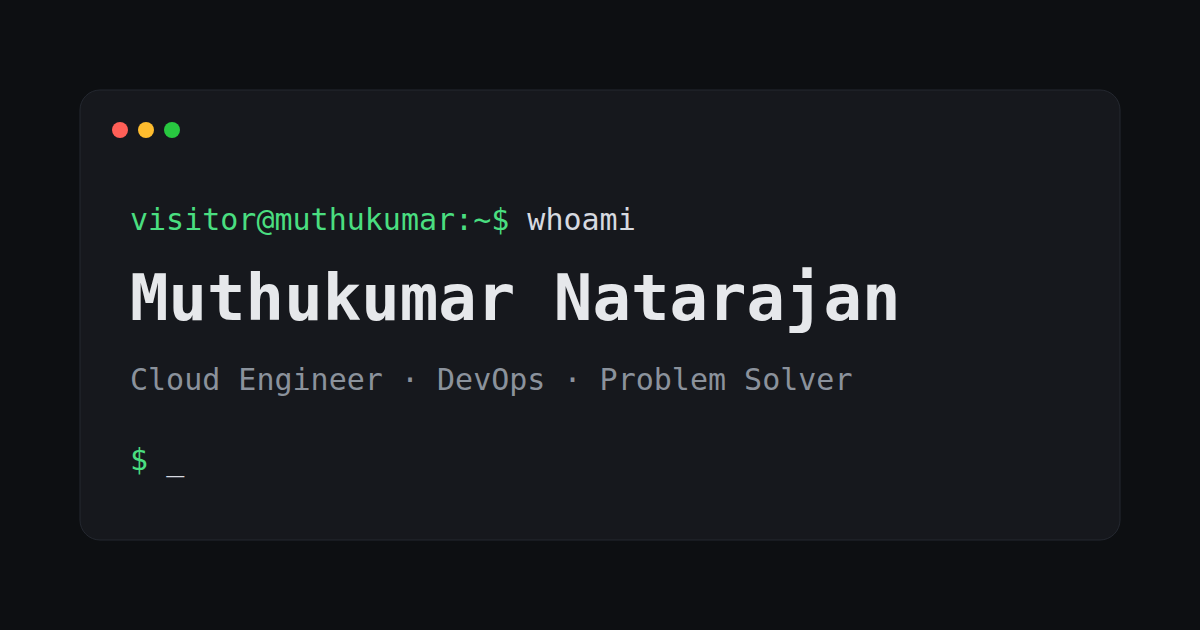
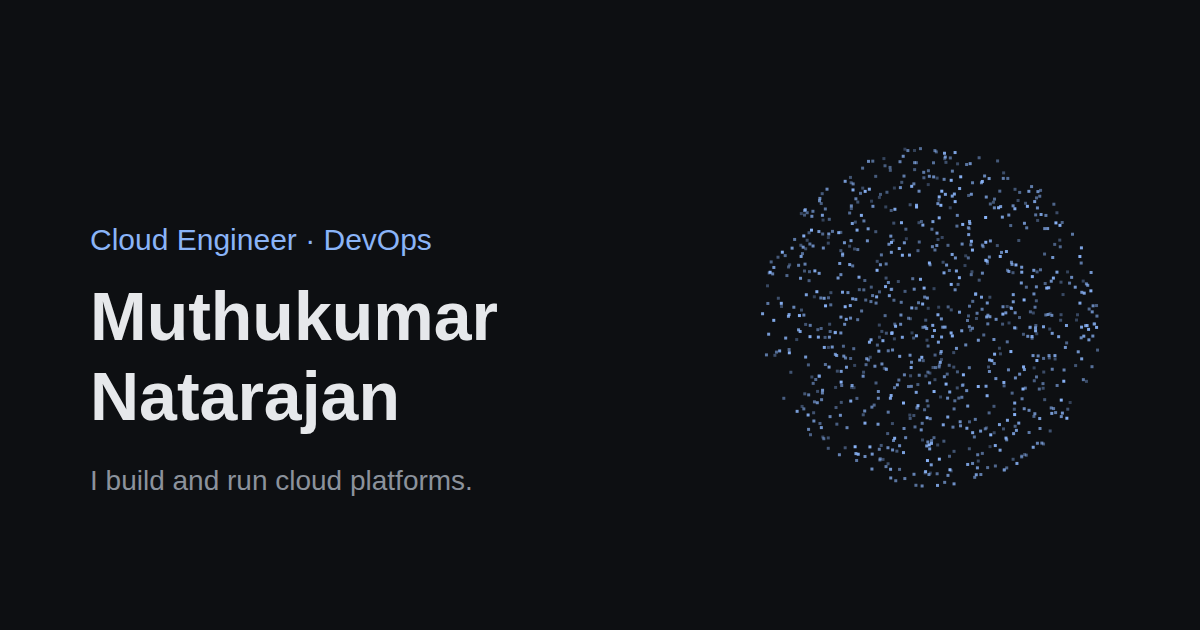
Switch to blue theme and add social links
Google blue accent (light) / soft blue (dark) across UI, particles,
favicon and OG image. Social links with icons in hero, contact, and
footer; empty URLs are hidden.

Claude-Session: https://claude.ai/code/session_01XLLhpUdt3t6DL9fYqErgR8

diff --git a/components/SocialLinks.js b/components/SocialLinks.js
@@ -1,0 +1,62 @@
+import profile from '../content/profile';
+import styles from './SocialLinks.module.css';
+
+const ICONS = {
+  github:
+    'M12 .5a11.5 11.5 0 0 0-3.64 22.41c.58.1.79-.25.79-.56v-2c-3.2.7-3.88-1.37-3.88-1.37-.52-1.33-1.28-1.69-1.28-1.69-1.05-.72.08-.7.08-.7 1.16.08 1.77 1.19 1.77 1.19 1.03 1.77 2.7 1.26 3.36.96.1-.75.4-1.26.73-1.55-2.55-.29-5.24-1.28-5.24-5.69 0-1.26.45-2.29 1.19-3.1-.12-.29-.52-1.46.11-3.05 0 0 .97-.31 3.17 1.18a11 11 0 0 1 5.77 0c2.2-1.49 3.17-1.18 3.17-1.18.63 1.59.23 2.76.11 3.05.74.81 1.19 1.84 1.19 3.1 0 4.42-2.7 5.39-5.26 5.68.41.36.78 1.06.78 2.14v3.17c0 .31.21.67.8.56A11.5 11.5 0 0 0 12 .5Z',
+  linkedin:
+    'M20.45 20.45h-3.56v-5.57c0-1.33-.02-3.04-1.85-3.04-1.86 0-2.14 1.45-2.14 2.94v5.67H9.35V9h3.41v1.56h.05c.48-.9 1.64-1.85 3.37-1.85 3.6 0 4.27 2.37 4.27 5.46v6.28ZM5.34 7.43a2.06 2.06 0 1 1 0-4.13 2.06 2.06 0 0 1 0 4.13ZM7.12 20.45H3.56V9h3.56v11.45ZM22.22 0H1.77C.79 0 0 .77 0 1.73v20.54C0 23.23.79 24 1.77 24h20.45c.98 0 1.78-.77 1.78-1.73V1.73C24 .77 23.2 0 22.22 0Z',
+  x: 'M18.24 2.25h3.31l-7.23 8.26 8.5 11.24h-6.66l-5.21-6.82-5.97 6.82H1.67l7.73-8.84L1.25 2.25h6.83l4.71 6.23 5.45-6.23Zm-1.16 17.52h1.83L7.08 4.13H5.12l11.96 15.64Z',
+  medium:
+    'M13.54 12a6.8 6.8 0 0 1-6.77 6.82A6.8 6.8 0 0 1 0 12a6.8 6.8 0 0 1 6.77-6.82A6.8 6.8 0 0 1 13.54 12Zm7.42 0c0 3.54-1.51 6.42-3.38 6.42-1.87 0-3.39-2.88-3.39-6.42s1.52-6.42 3.39-6.42 3.38 2.88 3.38 6.42ZM24 12c0 3.17-.53 5.75-1.19 5.75-.66 0-1.19-2.58-1.19-5.75s.53-5.75 1.19-5.75C23.47 6.25 24 8.83 24 12Z',
+  devto:
+    'M7.42 10.05c-.18-.16-.46-.23-.84-.23H6v4.36h.58c.37 0 .66-.08.84-.23.2-.16.29-.4.29-.73v-2.44c0-.33-.1-.57-.29-.73ZM0 4.94v14.12h24V4.94H0Zm8.56 8.86c0 .66-.2 1.2-.61 1.6-.41.41-1 .61-1.77.61H4.31V8.99H6.3c.76 0 1.33.2 1.72.6.39.4.54.94.54 1.61v2.6Zm4.24-3.53h-2.32v1.19h1.43v1.27h-1.43v1.2h2.32v1.27H9.93a.73.73 0 0 1-.73-.73V9.73c0-.4.33-.73.73-.73h2.87v1.27Zm4.23 4.83c-.56 1.3-1.56 1.04-2.01 0L13.4 9h1.4l1.28 4.92L17.35 9h1.4l-1.72 6.1Z',
+  youtube:
+    'M23.5 6.2a3 3 0 0 0-2.1-2.1C19.5 3.6 12 3.6 12 3.6s-7.5 0-9.4.5A3 3 0 0 0 .5 6.2 31 31 0 0 0 0 12a31 31 0 0 0 .5 5.8 3 3 0 0 0 2.1 2.1c1.9.5 9.4.5 9.4.5s7.5 0 9.4-.5a3 3 0 0 0 2.1-2.1A31 31 0 0 0 24 12a31 31 0 0 0-.5-5.8ZM9.6 15.6V8.4l6.2 3.6-6.2 3.6Z',
+  instagram:
+    'M12 2.16c3.2 0 3.58.01 4.85.07 1.17.05 1.8.25 2.23.41.56.22.96.48 1.38.9.42.42.68.82.9 1.38.16.42.36 1.06.41 2.23.06 1.27.07 1.65.07 4.85s-.01 3.58-.07 4.85c-.05 1.17-.25 1.8-.41 2.23a3.7 3.7 0 0 1-.9 1.38c-.42.42-.82.68-1.38.9-.42.16-1.06.36-2.23.41-1.27.06-1.65.07-4.85.07s-3.58-.01-4.85-.07c-1.17-.05-1.8-.25-2.23-.41a3.7 3.7 0 0 1-1.38-.9 3.7 3.7 0 0 1-.9-1.38c-.16-.42-.36-1.06-.41-2.23C2.17 15.58 2.16 15.2 2.16 12s.01-3.58.07-4.85c.05-1.17.25-1.8.41-2.23.22-.56.48-.96.9-1.38.42-.42.82-.68 1.38-.9.42-.16 1.06-.36 2.23-.41C8.42 2.17 8.8 2.16 12 2.16ZM12 0C8.74 0 8.33.01 7.05.07 5.78.13 4.9.33 4.14.63a5.9 5.9 0 0 0-2.13 1.38A5.9 5.9 0 0 0 .63 4.14C.33 4.9.13 5.78.07 7.05.01 8.33 0 8.74 0 12s.01 3.67.07 4.95c.06 1.27.26 2.15.56 2.91.3.79.72 1.46 1.38 2.13a5.9 5.9 0 0 0 2.13 1.38c.76.3 1.64.5 2.91.56C8.33 23.99 8.74 24 12 24s3.67-.01 4.95-.07c1.27-.06 2.15-.26 2.91-.56a5.9 5.9 0 0 0 2.13-1.38 5.9 5.9 0 0 0 1.38-2.13c.3-.76.5-1.64.56-2.91.06-1.28.07-1.69.07-4.95s-.01-3.67-.07-4.95c-.06-1.27-.26-2.15-.56-2.91a5.9 5.9 0 0 0-1.38-2.13A5.9 5.9 0 0 0 19.86.63C19.1.33 18.22.13 16.95.07 15.67.01 15.26 0 12 0Zm0 5.84a6.16 6.16 0 1 0 0 12.32 6.16 6.16 0 0 0 0-12.32ZM12 16a4 4 0 1 1 0-8 4 4 0 0 1 0 8Zm6.4-11.85a1.44 1.44 0 1 0 0 2.88 1.44 1.44 0 0 0 0-2.88Z',
+  stackoverflow:
+    'M18.99 21.95v-6.4h2.13V24H1.98v-8.45h2.13v6.4h14.88ZM6.22 19.82h10.64v-2.13H6.22v2.13Zm.26-4.84 10.39 2.18.44-2.08-10.39-2.18-.44 2.08Zm1.35-5.03 9.62 4.48.9-1.93-9.62-4.48-.9 1.93Zm2.69-4.74 8.16 6.79 1.36-1.63-8.16-6.79-1.36 1.63ZM15.8 0l-1.7 1.27 6.34 8.53 1.71-1.27L15.8 0Z',
+  credly:
+    'M12 1.5 21.1 6.75v10.5L12 22.5l-9.1-5.25V6.75L12 1.5Zm0 2.3L4.9 7.9v8.2L12 20.2l7.1-4.1V7.9L12 3.8Zm-.1 3.7c1.8 0 3.1.9 3.6 2.4l-1.8.6c-.3-.8-1-1.2-1.8-1.2-1.3 0-2.1 1-2.1 2.7 0 1.7.8 2.7 2.1 2.7.9 0 1.5-.4 1.8-1.2l1.8.6c-.5 1.5-1.8 2.4-3.6 2.4-2.5 0-4.1-1.8-4.1-4.5s1.6-4.5 4.1-4.5Z',
+  email: 'M2 4h20a2 2 0 0 1 2 2v12a2 2 0 0 1-2 2H2a2 2 0 0 1-2-2V6a2 2 0 0 1 2-2Zm0 2v.4l10 6.25L22 6.4V6H2Zm20 2.76-9.47 5.92a1 1 0 0 1-1.06 0L2 8.76V18h20V8.76Z',
+  link: 'M10.6 13.4a1 1 0 0 1 0-1.4l3.5-3.5a3 3 0 0 1 4.2 4.2l-2.1 2.1a1 1 0 1 1-1.4-1.4l2.1-2.1a1 1 0 0 0-1.4-1.4l-3.5 3.5a1 1 0 0 1-1.4 0Zm2.8-2.8a1 1 0 0 1 0 1.4l-3.5 3.5a3 3 0 0 1-4.2-4.2l2.1-2.1a1 1 0 1 1 1.4 1.4L7.1 12.7a1 1 0 0 0 1.4 1.4l3.5-3.5a1 1 0 0 1 1.4 0Z',
+};
+
+export const activeSocials = profile.socials.filter((s) => s.url);
+
+export function SocialIcon({ icon, size = 18 }) {
+  return (
+    <svg width={size} height={size} viewBox="0 0 24 24" fill="currentColor" aria-hidden="true">
+      <path d={ICONS[icon] || ICONS.link} />
+    </svg>
+  );
+}
+
+export default function SocialLinks({ withEmail = false, labels = false, className = '' }) {
+  const items = [
+    ...activeSocials,
+    ...(withEmail ? [{ label: 'Email', icon: 'email', url: `mailto:${profile.email}` }] : []),
+  ];
+  if (!items.length) return null;
+  return (
+    <ul className={`${styles.list} ${labels ? styles.withLabels : ''} ${className}`} aria-label="Social links">
+      {items.map((s) => (
+        <li key={s.label}>
+          <a
+            href={s.url}
+            className={styles.link}
+            target={s.url.startsWith('mailto:') ? undefined : '_blank'}
+            rel="noopener noreferrer me"
+            aria-label={s.label}
+            title={s.label}
+            data-magnetic
+          >
+            <SocialIcon icon={s.icon} />
+            {labels && <span>{s.label}</span>}
+          </a>
+        </li>
+      ))}
+    </ul>
+  );
+}

diff --git a/components/EasterEggs.js b/components/EasterEggs.js
@@ -26,7 +26,7 @@ export default function EasterEggs() {
     };
     window.addEventListener('keydown', onKey);
     window.addEventListener('app:egg', onEgg);
-    console.log('%c> hey, curious one. try the Konami code, or type `sudo hire-me` in the terminal.', 'color:#4ade80;font-family:monospace');
+    console.log('%c> hey, curious one. try the Konami code, or type `sudo hire-me` in the terminal.', 'color:#8ab4f8;font-family:monospace');
     return () => {
       window.removeEventListener('keydown', onKey);
       window.removeEventListener('app:egg', onEgg);
@@ -49,7 +49,7 @@ export default function EasterEggs() {
 
     let draw;
     if (egg === 'confetti') {
-      const colors = ['#4ade80', '#60a5fa', '#fbbf24', '#f472b6', '#a78bfa'];
+      const colors = ['#1a73e8', '#8ab4f8', '#fbbf24', '#f472b6', '#a78bfa'];
       const parts = Array.from({ length: 160 }, () => ({
         x: w / 2 + (Math.random() - 0.5) * 120,
         y: h * 0.6,
@@ -86,7 +86,7 @@ export default function EasterEggs() {
       draw = () => {
         ctx.fillStyle = 'rgba(0,0,0,0.08)';
         ctx.fillRect(0, 0, w, h);
-        ctx.fillStyle = '#4ade80';
+        ctx.fillStyle = '#8ab4f8';
         ctx.font = `${size}px monospace`;
         drops.forEach((y, i) => {
           ctx.fillText(glyphs[Math.floor(Math.random() * glyphs.length)], i * size, y * size);

diff --git a/content/profile.js b/content/profile.js
@@ -12,15 +12,20 @@ const profile = {
     'I design, automate, and operate cloud infrastructure that stays boring in production — in the best way.',
     'I care about reliable pipelines, infrastructure as code, and systems that heal themselves before anyone gets paged.',
   ],
-  // Drop a square photo in public/images/ and set e.g. '/images/profile.jpg'. Empty = initials.
+  // Drop a square photo in public/media/ and set e.g. '/media/profile.jpg'. Empty = hidden.
   avatar: '',
   email: 'muthukumar@example.com',
   resumeUrl: '/resume.pdf',
   bookingUrl: '',
   formspreeId: '',
+  // icon: github | linkedin | x | medium | devto | youtube | instagram | stackoverflow | credly | link
+  // Leave url empty to hide a link.
   socials: [
-    { label: 'GitHub', url: 'https://github.com/muthukumar2510' },
-    { label: 'LinkedIn', url: 'https://www.linkedin.com/' },
+    { label: 'GitHub', icon: 'github', url: 'https://github.com/muthukumar2510' },
+    { label: 'LinkedIn', icon: 'linkedin', url: 'https://www.linkedin.com/' },
+    { label: 'X', icon: 'x', url: '' },
+    { label: 'Medium', icon: 'medium', url: '' },
+    { label: 'Credly', icon: 'credly', url: '' },
   ],
 };
 

diff --git a/styles/globals.css b/styles/globals.css
@@ -5,13 +5,13 @@
   --text: #1c1c1e;
   --muted: #6b6b70;
   --border: #e6e5df;
-  --accent: #0f7b5f;
-  --accent-soft: rgba(15, 123, 95, 0.1);
+  --accent: #1a73e8;
+  --accent-soft: rgba(26, 115, 232, 0.1);
   --warn: #b7791f;
   --off: #9a9aa0;
   --term-bg: #16181d;
   --term-text: #d7dae0;
-  --term-accent: #4ade80;
+  --term-accent: #8ab4f8;
   --term-muted: #7d8590;
   --shadow: 0 1px 2px rgba(0, 0, 0, 0.04), 0 8px 24px rgba(0, 0, 0, 0.06);
 }
@@ -22,13 +22,13 @@
   --text: #e6e8eb;
   --muted: #8b929c;
   --border: #242830;
-  --accent: #4ade80;
-  --accent-soft: rgba(74, 222, 128, 0.1);
+  --accent: #8ab4f8;
+  --accent-soft: rgba(138, 180, 248, 0.12);
   --warn: #fbbf24;
   --off: #5c636e;
   --term-bg: #08090b;
   --term-text: #d7dae0;
-  --term-accent: #4ade80;
+  --term-accent: #8ab4f8;
   --term-muted: #6e7681;
   --shadow: 0 0 0 1px var(--border);
 }

diff --git a/components/sections/Contact.js b/components/sections/Contact.js
@@ -1,6 +1,7 @@
 import { useState } from 'react';
 import profile from '../../content/profile';
 import { copyEmail, mailtoFor, mailtoPresets, toast } from '../../lib/actions';
+import SocialLinks from '../SocialLinks';
 import styles from './Sections.module.css';
 
 export default function Contact() {
@@ -60,15 +61,7 @@ export default function Contact() {
                 </a>
               )}
             </div>
-            <ul className={styles.socials}>
-              {profile.socials.map((s) => (
-                <li key={s.label}>
-                  <a href={s.url} target="_blank" rel="noopener noreferrer">
-                    {s.label} ↗
-                  </a>
-                </li>
-              ))}
-            </ul>
+            <SocialLinks labels className={styles.socials} />
           </div>
 
           {profile.formspreeId ? (

diff --git a/components/CommandPalette.js b/components/CommandPalette.js
@@ -38,7 +38,7 @@ function buildItems({ projects, posts }) {
   { group: 'Actions', label: 'Open resume', hint: 'PDF', run: openResume },
   { group: 'Actions', label: 'Toggle theme', hint: 'light / dark', run: toggleTheme },
   ...(profile.bookingUrl ? [{ group: 'Actions', label: 'Book a call', hint: 'calendar', run: () => openUrl(profile.bookingUrl) }] : []),
-  ...profile.socials.map((s) => ({ group: 'Links', label: s.label, hint: s.url.replace(/^https?:\/\//, ''), run: () => openUrl(s.url) })),
+  ...profile.socials.filter((s) => s.url).map((s) => ({ group: 'Links', label: s.label, hint: s.url.replace(/^https?:\/\//, ''), run: () => openUrl(s.url) })),
   { group: 'Fun', label: 'Enter the matrix', hint: 'trust me', run: () => fireEgg('matrix') },
   ];
 }

diff --git a/components/Footer.js b/components/Footer.js
@@ -1,4 +1,5 @@
 import profile from '../content/profile';
+import SocialLinks from './SocialLinks';
 
 const commit = process.env.NEXT_PUBLIC_COMMIT;
 const built = process.env.NEXT_PUBLIC_BUILD_TIME;
@@ -9,6 +10,7 @@ export default function Footer() {
     <footer style={footer}>
       <div className="container" style={inner}>
         <span>© {new Date(built || Date.now()).getFullYear()} {profile.name}</span>
+        <SocialLinks withEmail />
         <span style={mono}>
           <span style={{ color: 'var(--accent)' }}>●</span> build {commit} · deployed {date}
         </span>
@@ -29,6 +31,7 @@ const inner = {
   display: 'flex',
   flexWrap: 'wrap',
   justifyContent: 'space-between',
+  alignItems: 'center',
   gap: 12,
 };
 

diff --git a/components/SocialLinks.module.css b/components/SocialLinks.module.css
@@ -1,0 +1,36 @@
+.list {
+  display: flex;
+  flex-wrap: wrap;
+  gap: 8px;
+  list-style: none;
+  margin: 0;
+  padding: 0;
+}
+
+.link {
+  display: inline-flex;
+  align-items: center;
+  justify-content: center;
+  gap: 8px;
+  min-width: 40px;
+  height: 40px;
+  padding: 0 11px;
+  border-radius: 12px;
+  border: 1px solid var(--border);
+  background: var(--surface);
+  color: var(--muted);
+  font-size: 0.9rem;
+  font-weight: 500;
+  transition: color 0.2s, border-color 0.2s, background 0.2s;
+}
+
+.link:hover {
+  text-decoration: none;
+  color: var(--accent);
+  border-color: var(--accent);
+  background: var(--accent-soft);
+}
+
+.withLabels .link {
+  color: var(--text);
+}

diff --git a/components/sections/Hero.js b/components/sections/Hero.js
@@ -1,6 +1,7 @@
 import profile from '../../content/profile';
 import ParticleHero from '../ParticleHero';
 import Avatar from '../Avatar';
+import SocialLinks from '../SocialLinks';
 import { openConsole } from '../../lib/actions';
 import styles from './Sections.module.css';
 
@@ -38,6 +39,7 @@ export default function Hero() {
                 Get in touch
               </a>
             </div>
+            <SocialLinks withEmail className={styles.heroSocials} />
             <button type="button" className={styles.consoleHint} onClick={openConsole}>
               Open the terminal <kbd>`</kbd>
             </button>

diff --git a/components/ParticleHero.js b/components/ParticleHero.js
@@ -112,7 +112,7 @@ export default function ParticleHero({ initials }) {
 
     function colors() {
       const css = getComputedStyle(document.documentElement);
-      return { accent: css.getPropertyValue('--accent').trim() || '#0f7b5f', text: css.getPropertyValue('--text').trim() || '#111' };
+      return { accent: css.getPropertyValue('--accent').trim() || '#1a73e8', text: css.getPropertyValue('--text').trim() || '#111' };
     }
     let palette = colors();
 

diff --git a/components/Terminal/commands.js b/components/Terminal/commands.js
@@ -103,7 +103,7 @@ const commands = [
       }
       return [
         `email     ${profile.email}`,
-        ...profile.socials.map((s) => `${s.label.toLowerCase().padEnd(9)} ${s.url}`),
+        ...profile.socials.filter((s) => s.url).map((s) => `${s.label.toLowerCase().padEnd(9)} ${s.url}`),
         { text: "Try 'email' to copy my address or 'contact hire' for a ready-made email.", tone: 'muted' },
       ];
     },

diff --git a/components/sections/Sections.module.css b/components/sections/Sections.module.css
@@ -73,8 +73,12 @@
   margin: 0 0 32px;
 }
 
-.consoleHint {
+.heroSocials {
   margin-top: 28px;
+}
+
+.consoleHint {
+  margin-top: 20px;
   padding: 0;
   border: 0;
   background: none;
@@ -517,13 +521,7 @@
 }
 
 .socials {
-  display: flex;
-  gap: 20px;
-  list-style: none;
-  padding: 0;
-  margin: 24px 0 0;
-  font-family: var(--font-mono);
-  font-size: 0.9rem;
+  margin-top: 24px;
 }
 
 .form,
